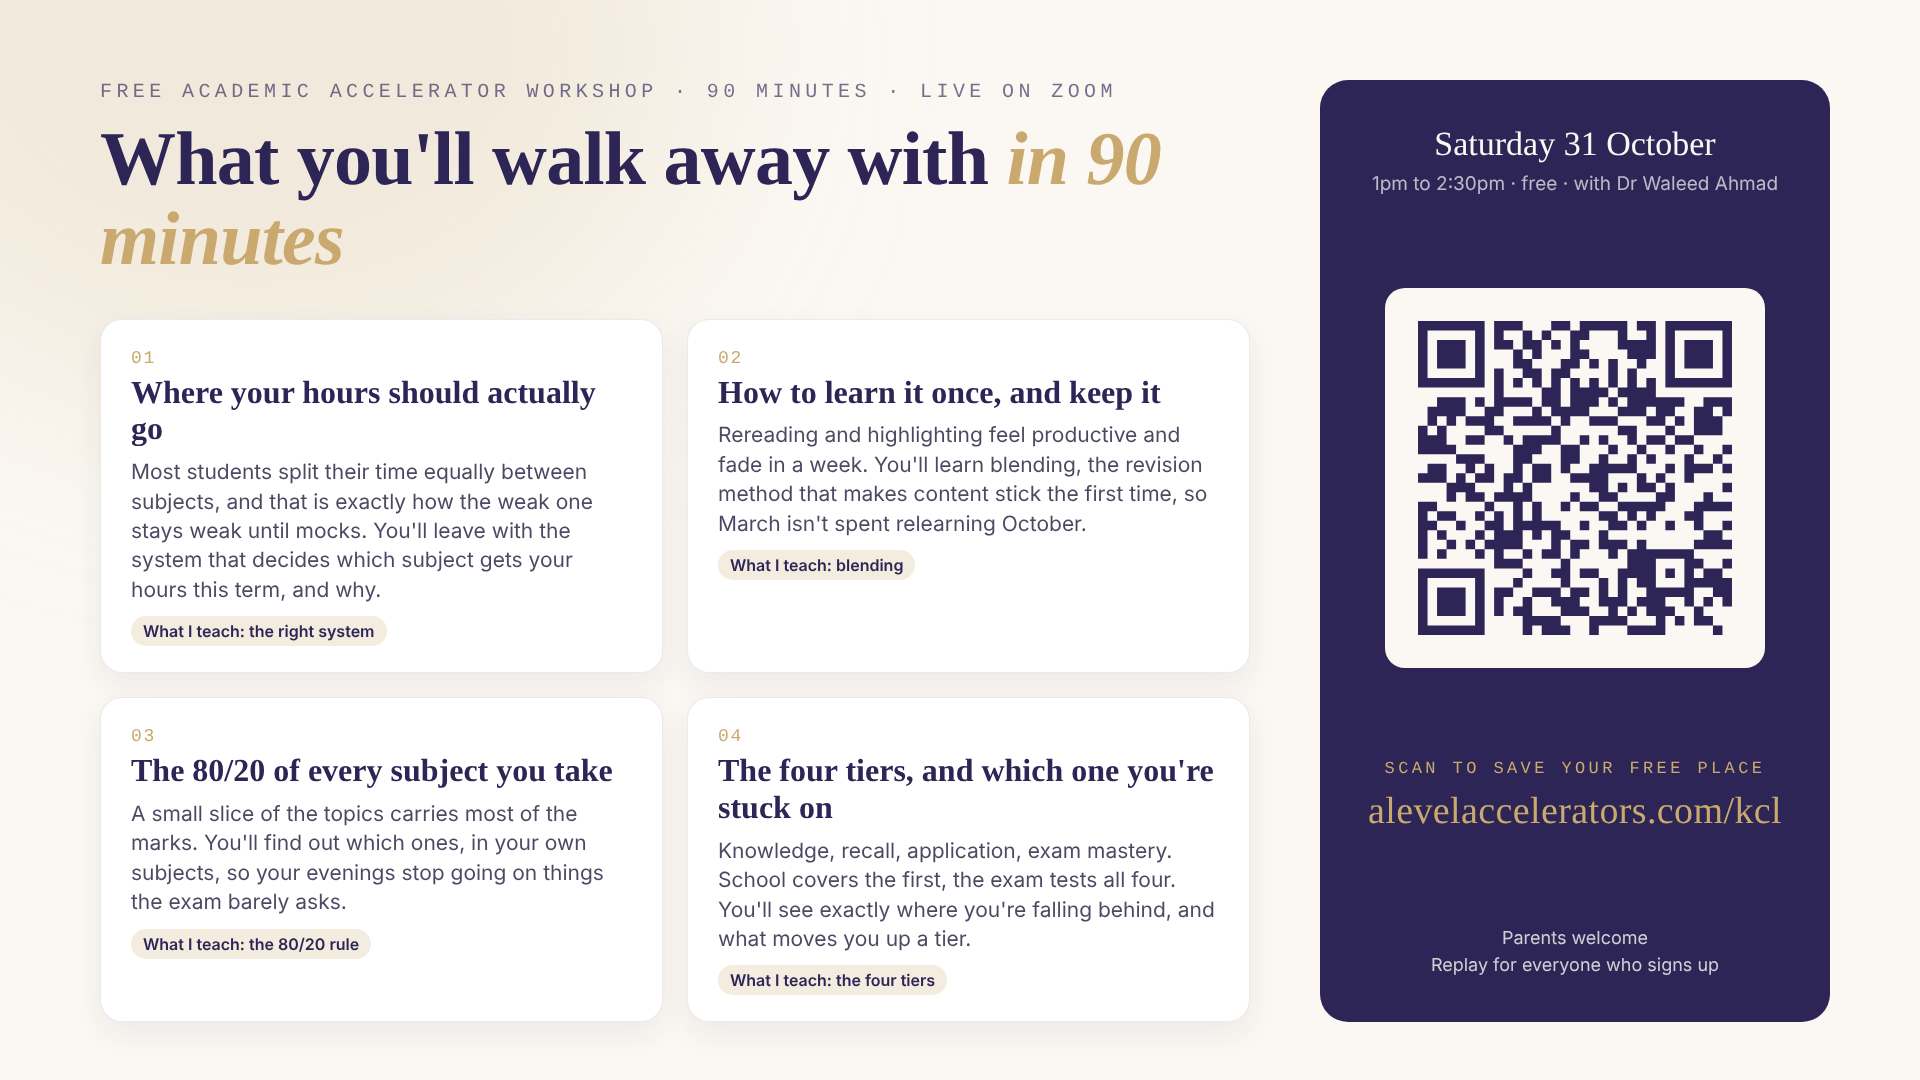
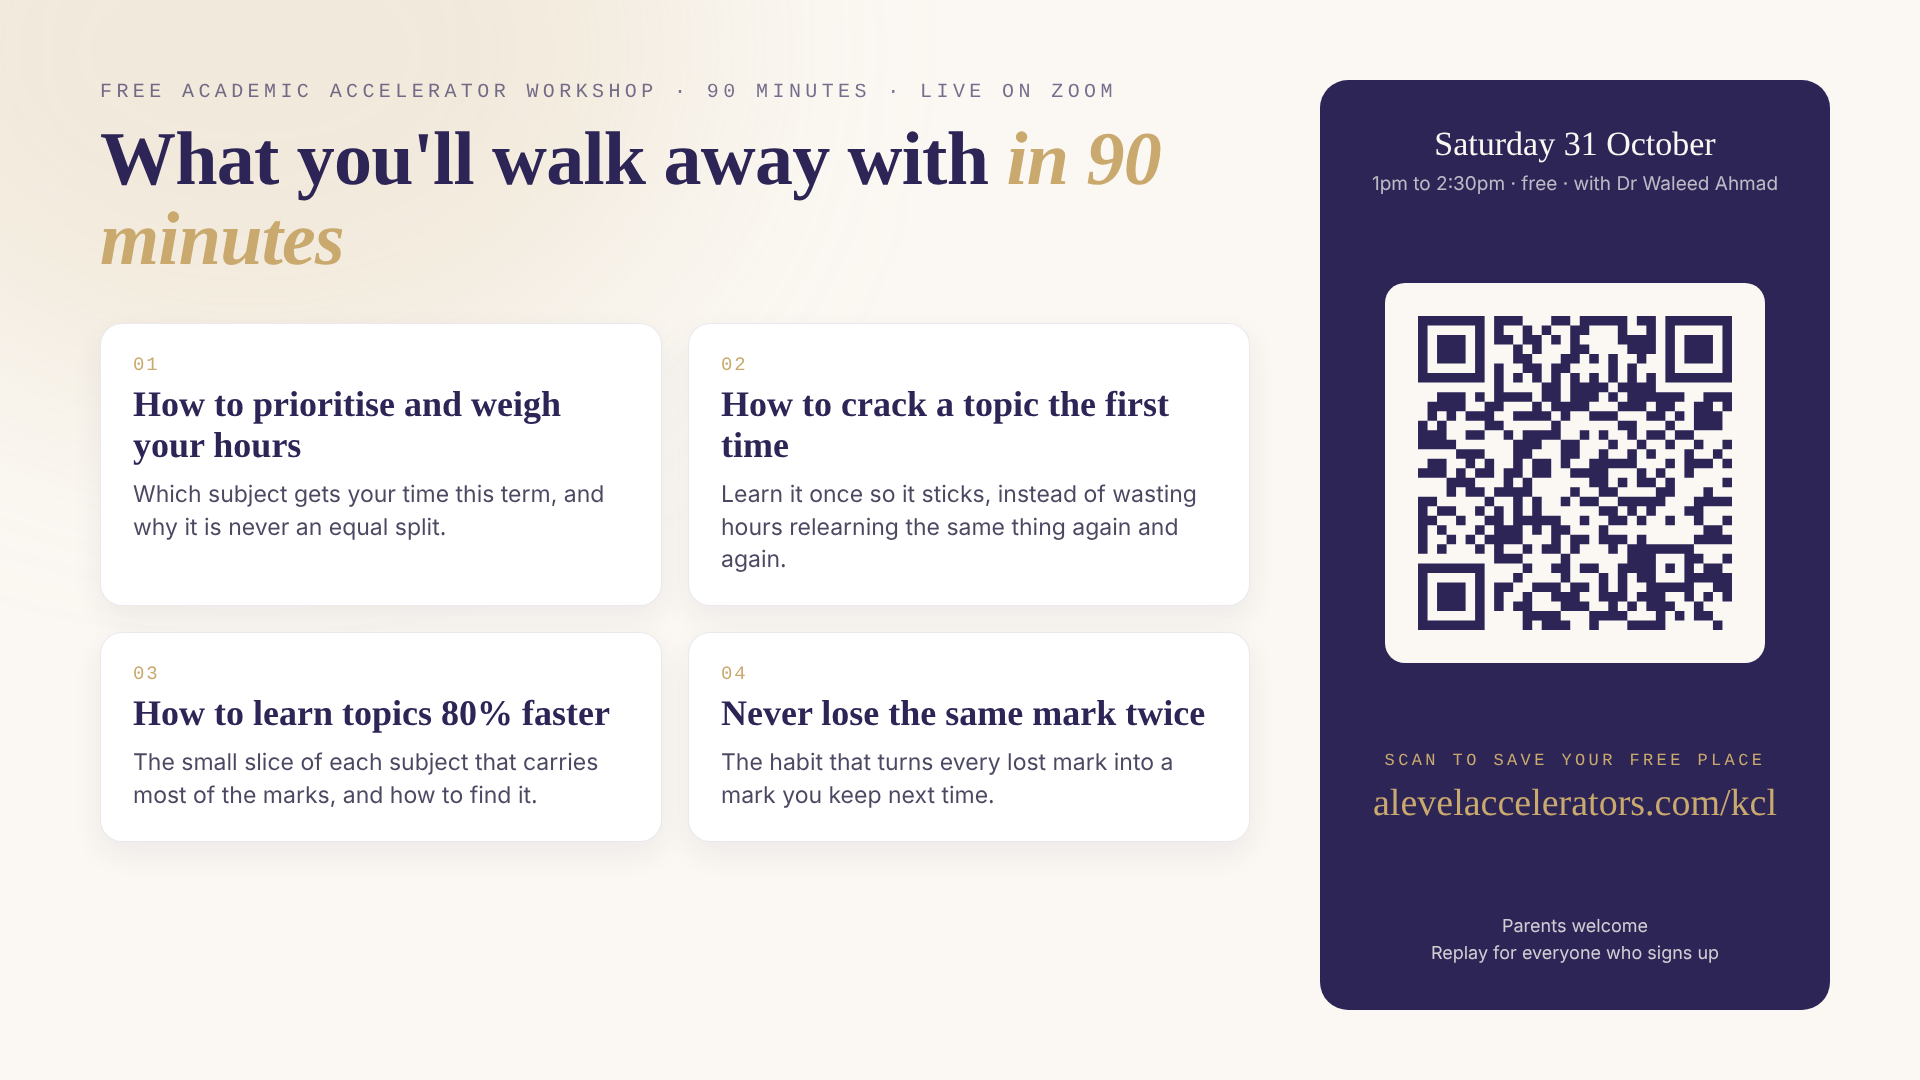
Workshop page: gold workshop name above the headline; four-steps slide and graphic in Waleed's wording
Claude-Session: https://claude.ai/code/session_01XHgQdYwRca8du7BxBQnwiU

diff --git a/app/free-workshop/page.tsx b/app/free-workshop/page.tsx
@@ -50,9 +50,9 @@ export default function FreeWorkshopPage() {
     <main className="min-h-screen bg-brand-cream px-5 pb-16 pt-10 sm:pt-14">
       <div className="mx-auto max-w-2xl">
         {/* 1 · Save your free place */}
-        <p className={`${EYEBROW} text-center`}>Free Academic Accelerator Workshop</p>
-        <h1 className="mt-3 text-center font-serif text-4xl font-bold tracking-tight text-brand-purple sm:text-5xl">
-          Save your free place
+        <h1 className="text-center font-serif text-4xl font-bold leading-tight tracking-tight sm:text-5xl">
+          <span className="block text-brand-gold">Free Academic Accelerator Workshop</span>
+          <span className="mt-2 block text-3xl text-brand-purple sm:text-4xl">Save your free place</span>
         </h1>
         <p className="mx-auto mt-3 max-w-xl text-center leading-relaxed text-brand-text/70">
           {WORKSHOP.dateLabel}, {WORKSHOP.timeLabel}. {WORKSHOP.durationLabel} with Dr Waleed Ahmad. {WORKSHOP.strap}
